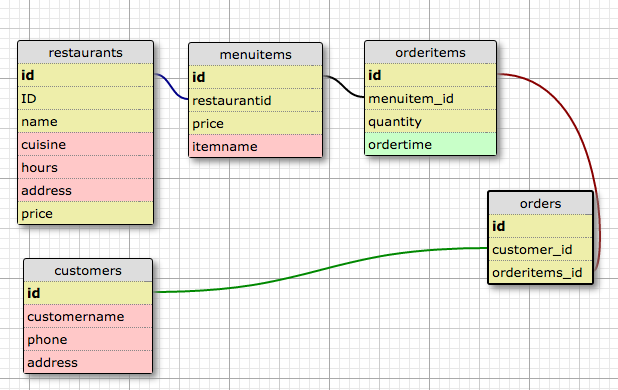
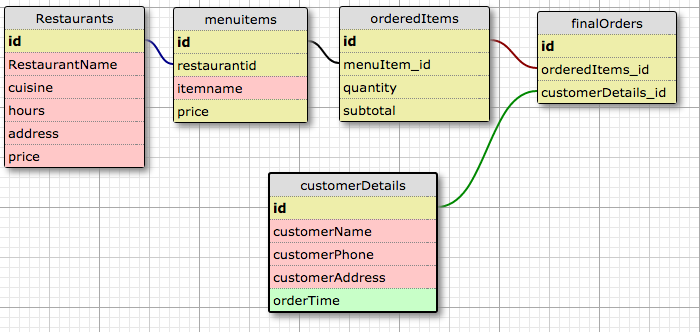
make changes to customer class and tests

diff --git a/src/test/java/CustomerTest.java b/src/test/java/CustomerTest.java
@@ -11,51 +11,52 @@ public class CustomerTest {
   @Rule
   public DatabaseRule database = new DatabaseRule();
 
+  Customer customer = new Customer("Henry", "503-123-4567", "123 fourth St");
+
   @Test
   public void customer_instantiatesCorrectly_true() {
-    Customer testCustomer = new Customer("Henry", "503-123-4567");
+    Customer testCustomer = customer;
     assertEquals(true, testCustomer instanceof Customer);
   }
 
   @Test
   public void getCustomerName_customerInstantiatesWithName_Henry() {
-  Customer testCustomer = new Customer("Henry", "503-123-4567");
+    Customer testCustomer = customer;
   assertEquals("Henry", testCustomer.getCustomerName());
   }
 
   @Test
-  public void getPhone_customerInstantiatesWithPhone_String() {
-  Customer testCustomer = new Customer("Henry", "503-123-4567");
-  assertEquals( "503-123-4567", testCustomer.getPhone());
+  public void getCustomerPhone_customerInstantiatesWithPhone_String() {
+    Customer testCustomer = customer;
+  assertEquals( "503-123-4567", testCustomer.getCustomerPhone());
   }
 
   @Test
   public void equals_returnsTrueIfNameAndPhoneAreSame_true() {
-    Customer firstCustomer = new Customer("Henry", "503-123-4567");
-    Customer anotherCustomer = new Customer("Henry", "503-123-4567");
-    assertTrue(firstCustomer.equals(anotherCustomer));
+    Customer testCustomer = customer;
+    Customer anotherCustomer = new Customer("Henry", "503-123-4567", "123 fourth St");
+    assertTrue(testCustomer.equals(anotherCustomer));
   }
 
   @Test
   public void save_insertsObjectIntoDatabase_Customer() {
-    Customer testCustomer = new Customer("Henry", "503-123-4567");
+    Customer testCustomer = customer;
     testCustomer.save();
     assertTrue(Customer.all().get(0).equals(testCustomer));
   }
 
   @Test
   public void all_returnsAllInstancesOfCustomer_true() {
-    Customer firstCustomer = new Customer("Henry", "503-123-4567");
-    firstCustomer.save();
-    Customer secondCustomer = new Customer("Harriet", "503-321-7654");
+    Customer testCustomer = customer;
+    Customer secondCustomer = new Customer("Harriet", "503-321-7654", "474 NW fdh");
     secondCustomer.save();
-    assertEquals(true, Customer.all().get(0).equals(firstCustomer));
+    assertEquals(true, Customer.all().get(0).equals(testCustomer));
     assertEquals(true, Customer.all().get(1).equals(secondCustomer));
   }
 
   @Test
    public void save_assignsIdToObject() {
-     Customer testCustomer = new Customer("Henry", "503-123-4567");
+     Customer testCustomer = customer;
      testCustomer.save();
      Customer savedCustomer = Customer.all().get(0);
      assertEquals(testCustomer.getId(), savedCustomer.getId());
@@ -63,15 +64,15 @@ public class CustomerTest {
 
    @Test
     public void find_returnsCustomerWithSameId_secondCustomer() {
-      Customer firstCustomer = new Customer("Henry", "503-123-4567");
-      firstCustomer.save();
-      Customer secondCustomer = new Customer("Harriet", "503-321-7654");
+      Customer testCustomer = customer;
+      testCustomer.save();
+      Customer secondCustomer = new Customer("Harriet", "503-321-7654", "474 NW fdh");
       secondCustomer.save();
       assertEquals(Customer.find(secondCustomer.getId()), secondCustomer);
   }
     // @Test
     // public void saveOrderTime_recordsOrderTimeOfCreationInDatabase() {
-    //  Customer testCustomer = new Customer("Henry", "503-123-4567");
+    //    Customer testCustomer = customer;
     //  testCustomer.save();
     //  Timestamp savedCustomerOrderTime = Customer.find(testCustomer.getId()).getOrderTime();
     //  Timestamp rightNow = new Timestamp(new Date().getTime());

diff --git a/src/main/java/Customer.java b/src/main/java/Customer.java
@@ -9,31 +9,37 @@ import java.util.TimerTask;
 
 public class Customer {
   private String customerName;
-  private String phone;
-  private String address;
+  private String customerPhone;
+  private String customerAddress;
+  private Timestamp orderTime;
   private int id;
 
-  public Customer(String customerName, String phone, String address){
+  public Customer(String customerName, String customerPhone, String customerAddress){
     this.customerName = customerName;
-    this.phone = phone;
-    this.address = address;
+    this.customerPhone = customerPhone;
+    this.customerAddress = customerAddress;
+    this.orderTime = orderTime;
+
   }
   public String getCustomerName(){
     return customerName;
   }
 
-  public String getPhone(){
-    return phone;
+  public String getCustomerPhone(){
+    return customerPhone;
   }
 
   public int getId(){
     return id;
   }
 
-  public String getAddress(){
-    return address;
+  public String getCustomerAddress(){
+    return customerAddress;
   }
 
+  public Timestamp getOrderTime(){
+    return orderTime;
+  }
 
   @Override
   public boolean equals(Object otherCustomer){
@@ -42,12 +48,12 @@ public class Customer {
    } else {
      Customer newCustomer = (Customer) otherCustomer;
      return this.getCustomerName().equals(newCustomer.getCustomerName()) &&
-            this.getPhone().equals(newCustomer.getPhone());
+            this.getCustomerPhone().equals(newCustomer.getCustomerPhone());
    }
  }
 
  public static List<Customer> all() {
-    String sql = "SELECT * FROM customers";
+    String sql = "SELECT * FROM customerdetails";
     try(Connection con = DB.sql2o.open()) {
      return con.createQuery(sql).executeAndFetch(Customer.class);
     }
@@ -55,11 +61,11 @@ public class Customer {
 
   public void save() {
   try(Connection con = DB.sql2o.open()) {
-    String sql = "INSERT INTO customers (customername, phone) VALUES (:customername, :phone)";
+    String sql = "INSERT INTO customerdetails (customername, customerphone, customeraddress, ordertime) VALUES (:customerName, :customerPhone, :customerAddress, now())";
     this.id = (int) con.createQuery(sql, true)
       .addParameter("customername", this.customerName)
-      .addParameter("phone", this.phone)
-      .addParameter("address", this.address)
+      .addParameter("phone", this.customerPhone)
+      .addParameter("address", this.customerAddress)
       .executeUpdate()
       .getKey();
     }
@@ -67,7 +73,7 @@ public class Customer {
 
   public static Customer find(int id) {
     try(Connection con = DB.sql2o.open()) {
-      String sql = "SELECT * FROM customers where id=:id";
+      String sql = "SELECT * FROM customerdetails where id=:id";
       Customer customer = con.createQuery(sql)
         .addParameter("id", id)
         .executeAndFetchFirst(Customer.class);

diff --git a/src/test/java/DatabaseRule.java b/src/test/java/DatabaseRule.java
@@ -8,15 +8,15 @@ public class DatabaseRule extends ExternalResource {
   DB.sql2o = new Sql2o("jdbc:postgresql://localhost:5432/food_delivery_test", null, null);
   }
 
-  @Override
-  protected void after() {
-    try(Connection con = DB.sql2o.open()) {
-      String deleteMenuItemsQuery = "DELETE FROM menuitems *;";
-      String deleteCustomersQuery = "DELETE FROM customers *;";
-      String deleteRestaurantsQuery = "DELETE FROM restaurants *;";
-      con.createQuery(deleteRestaurantsQuery).executeUpdate();
-      con.createQuery(deleteMenuItemsQuery).executeUpdate();
-      con.createQuery(deleteCustomersQuery).executeUpdate();
-    }
-  }
+  // @Override
+  // protected void after() {
+  //   try(Connection con = DB.sql2o.open()) {
+  //     String deleteMenuItemsQuery = "DELETE FROM menuitems *;";
+  //     String deleteCustomersQuery = "DELETE FROM customers *;";
+  //     String deleteRestaurantsQuery = "DELETE FROM restaurants *;";
+  //     con.createQuery(deleteRestaurantsQuery).executeUpdate();
+  //     con.createQuery(deleteMenuItemsQuery).executeUpdate();
+  //     con.createQuery(deleteCustomersQuery).executeUpdate();
+  //   }
+  // }
 }

diff --git a/src/main/java/Order.java b/src/main/java/Order.java
@@ -101,6 +101,17 @@ public class Order {
     }
   }
 
+
+
+  // public List<Order> getOrdersByCustomerID() {
+  //   try(Connection con = DB.sql2o.open()) {
+  //     String sql = "SELECT blogs.* FROM tags JOIN blog_tag ON (tags.id = blog_tag.tag_id) JOIN blogs ON (blog_tag.blog_id = blogs.id) WHERE tags.id = :tag_id";
+  //     return con.createQuery(sql)
+  //       .addParameter("tag_id", this.id)
+  //       .executeAndFetch(Blog.class);
+  //   }
+  // }
+
 //
 
 

diff --git a/src/main/java/App.java b/src/main/java/App.java
@@ -37,14 +37,3 @@ public class App {
 
   }
 }
-
-
-
-
-
-
-
-
-
-
-}

diff --git a/readme.MD b/readme.MD
@@ -18,7 +18,6 @@ Local food delivery service.
 
 
 #### Database Diagram:
-![database diagram](schema.png)
 
 #### Technical Specifications:
 ![Specifications diagram](picture here)
